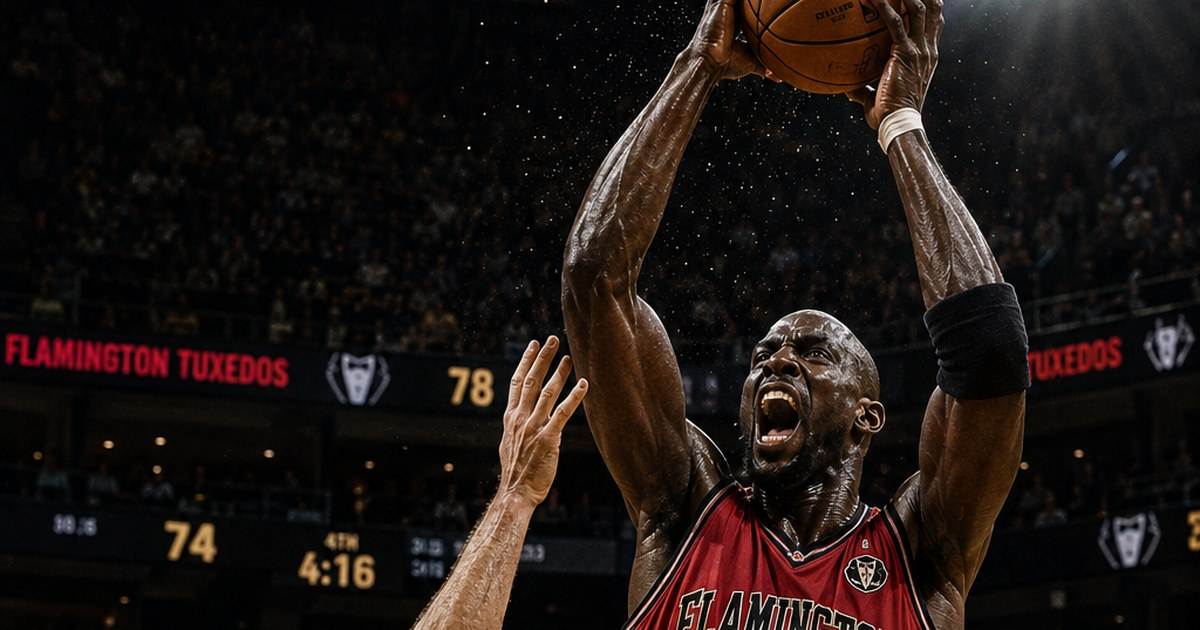
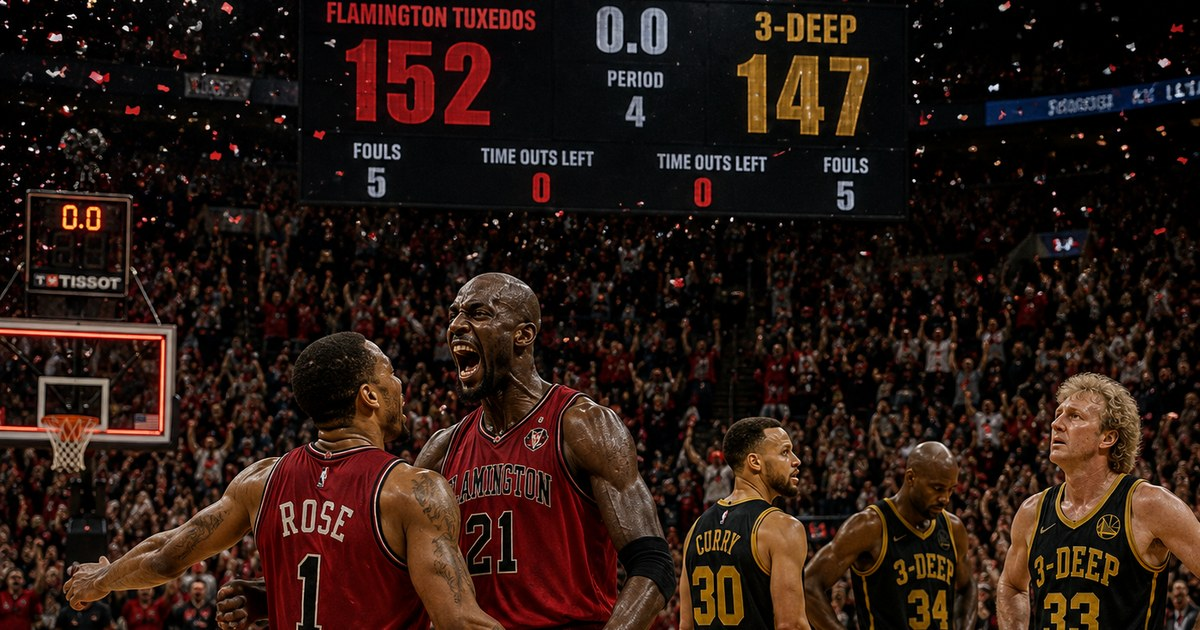
Articles tweaked!

diff --git a/index.html b/index.html
@@ -57,6 +57,16 @@
         <div class="carousel">
 <div class="carousel-track">
 <div class="carousel-slide active">
+<img src="assets/images/articles/long-rose-back-to-redemption-hero.jpg" alt="The long Rose back to redemption">
+<div class="carousel-scrim"></div>
+<div class="carousel-text">
+<p class="carousel-tag">Feature</p>
+<h2 class="carousel-title">The long Rose back to redemption</h2>
+<p class="carousel-blurb">Four straight wins, a 36-point night, and a player the real game moved on from too early finally getting his runway.</p>
+<div class="carousel-byline"><img src="assets/images/authors/lewis-krauskopf.jpg" alt="Lewis Krauskopf" class="author-photo"><span>By Lewis Krauskopf &middot; August 4, 2026</span></div>
+<a href="articles/long-rose-back-to-redemption.html" class="carousel-cta">Read more &#8594;</a>
+</div>
+</div><div class="carousel-slide">
 <img src="assets/images/articles/too-early-to-panic-3-deep-hero.jpg" alt="Is it too early to panic for 3-Deep?">
 <div class="carousel-scrim"></div>
 <div class="carousel-text">
@@ -75,16 +85,6 @@
 <p class="carousel-blurb">Five players in double figures survive a 25-point, 12-assist night from Robertson in a game that came down to the final possessions.</p>
 <div class="carousel-byline"><img src="assets/images/authors/lewis-krauskopf.jpg" alt="Lewis Krauskopf" class="author-photo"><span>By Lewis Krauskopf &middot; August 4, 2026</span></div>
 <a href="articles/game-of-the-week-blnk-vs-oak.html" class="carousel-cta">Read more &#8594;</a>
-</div>
-</div><div class="carousel-slide">
-<img src="assets/images/articles/long-rose-back-to-redemption-hero.jpg" alt="The long Rose back to redemption">
-<div class="carousel-scrim"></div>
-<div class="carousel-text">
-<p class="carousel-tag">Feature</p>
-<h2 class="carousel-title">The long Rose back to redemption</h2>
-<p class="carousel-blurb">Four straight wins, a 36-point night, and a player the real game moved on from too early finally getting his runway.</p>
-<div class="carousel-byline"><img src="assets/images/authors/lewis-krauskopf.jpg" alt="Lewis Krauskopf" class="author-photo"><span>By Lewis Krauskopf &middot; August 4, 2026</span></div>
-<a href="articles/long-rose-back-to-redemption.html" class="carousel-cta">Read more &#8594;</a>
 </div>
 </div>
 <button class="carousel-arrow carousel-arrow-prev" aria-label="Previous story">&#8249;</button><button class="carousel-arrow carousel-arrow-next" aria-label="Next story">&#8250;</button>

diff --git a/all-stories.html b/all-stories.html
@@ -52,7 +52,15 @@
 <h1>All Stories</h1>
 <p class="subtitle">Every article from around the league, most recent first.</p>
 <div class="archive-grid">
-<a href="articles/too-early-to-panic-3-deep.html" class="archive-card">
+<a href="articles/long-rose-back-to-redemption.html" class="archive-card">
+<img src="assets/images/articles/long-rose-back-to-redemption-hero.jpg" alt="The long Rose back to redemption" class="archive-thumb">
+<div class="archive-card-text">
+<p class="archive-card-tag">Feature</p>
+<h3 class="archive-card-title">The long Rose back to redemption</h3>
+<p class="archive-card-blurb">Four straight wins, a 36-point night, and a player the real game moved on from too early finally getting his runway.</p>
+<p class="archive-card-date">By Lewis Krauskopf &middot; August 4, 2026</p>
+</div>
+</a><a href="articles/too-early-to-panic-3-deep.html" class="archive-card">
 <img src="assets/images/articles/too-early-to-panic-3-deep-hero.jpg" alt="Is it too early to panic for 3-Deep?" class="archive-thumb">
 <div class="archive-card-text">
 <p class="archive-card-tag">Opinion</p>
@@ -66,14 +74,6 @@
 <p class="archive-card-tag">Game of the Week</p>
 <h3 class="archive-card-title">Five-deep Blankendorf outlasts Oscar's masterpiece</h3>
 <p class="archive-card-blurb">Five players in double figures survive a 25-point, 12-assist night from Robertson in a game that came down to the final possessions.</p>
-<p class="archive-card-date">By Lewis Krauskopf &middot; August 4, 2026</p>
-</div>
-</a><a href="articles/long-rose-back-to-redemption.html" class="archive-card">
-<img src="assets/images/articles/long-rose-back-to-redemption-hero.jpg" alt="The long Rose back to redemption" class="archive-thumb">
-<div class="archive-card-text">
-<p class="archive-card-tag">Feature</p>
-<h3 class="archive-card-title">The long Rose back to redemption</h3>
-<p class="archive-card-blurb">Four straight wins, a 36-point night, and a player the real game moved on from too early finally getting his runway.</p>
 <p class="archive-card-date">By Lewis Krauskopf &middot; August 4, 2026</p>
 </div>
 </a>

diff --git a/articles/long-rose-back-to-redemption.html b/articles/long-rose-back-to-redemption.html
@@ -75,7 +75,19 @@
 
 </div>
 
-
+<div class="photo-strip"><figure class="photo-strip-item">
+<img src="../assets/images/articles/long-rose-back-to-redemption-photo-1.jpg" alt="Rose splits the defense on his way to another big night.">
+<figcaption>Rose splits the defense on his way to another big night.</figcaption>
+</figure>
+<figure class="photo-strip-item">
+<img src="../assets/images/articles/long-rose-back-to-redemption-photo-2.jpg" alt="The bench that's bought in — Garnett, Rose, Jokić, and Goodrich share a laugh.">
+<figcaption>The bench that's bought in — Garnett, Rose, Jokić, and Goodrich share a laugh.</figcaption>
+</figure>
+<figure class="photo-strip-item">
+<img src="../assets/images/articles/long-rose-back-to-redemption-photo-3.jpg" alt="Getting to his spot — Rose rises over 3-Deep's defense.">
+<figcaption>Getting to his spot — Rose rises over 3-Deep's defense.</figcaption>
+</figure>
+</div>
 </div>
 <footer class="site-footer"><a href="../rules.html">League Rules</a></footer>
 <script src="../assets/js/sort-table.js"></script>

diff --git a/articles/too-early-to-panic-3-deep.html b/articles/too-early-to-panic-3-deep.html
@@ -70,7 +70,15 @@
 
 </div>
 
-
+<div class="photo-strip"><figure class="photo-strip-item">
+<img src="../assets/images/articles/too-early-to-panic-3-deep-photo-1.jpg" alt="Tip-off — Flamington and 3-Deep opened the season 0-0, before the losing started.">
+<figcaption>Tip-off — Flamington and 3-Deep opened the season 0-0, before the losing started.</figcaption>
+</figure>
+<figure class="photo-strip-item">
+<img src="../assets/images/articles/too-early-to-panic-3-deep-photo-2.jpg" alt="Curry sits alone after Flamington's celebration begins — San Francisco's seventh straight loss to open the season.">
+<figcaption>Curry sits alone after Flamington's celebration begins — San Francisco's seventh straight loss to open the season.</figcaption>
+</figure>
+</div>
 </div>
 <footer class="site-footer"><a href="../rules.html">League Rules</a></footer>
 <script src="../assets/js/sort-table.js"></script>
